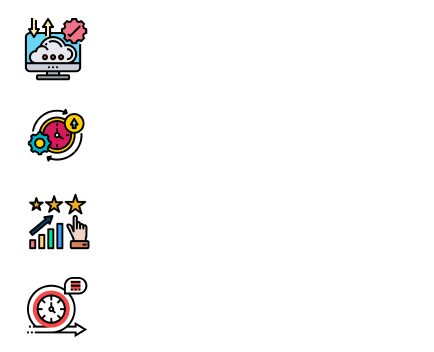
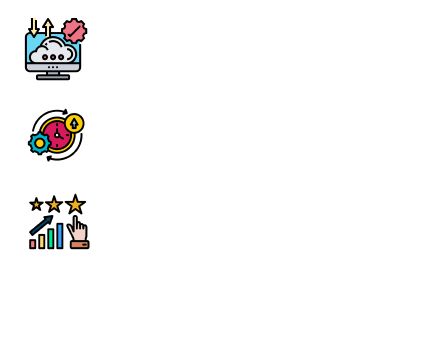
Changes in UI in PDF

Changed region(s): [[0.0599, 0.7812, 0.2097, 0.9688]]

diff --git a/src/app/services/export-file.service.ts b/src/app/services/export-file.service.ts
@@ -202,8 +202,8 @@ export class ExportFileService {
           canvas: [
             {
               type: 'line',
-              x1: 5, y1: 0,
-              x2: 5, y2: 200,  // Adjust the height of the line
+              x1: 15, y1: 0,
+              x2: 15, y2: 200,  // Adjust the height of the line
               lineWidth: 1,
               color: 'black' // Set the color of the line
             }
@@ -211,94 +211,94 @@ export class ExportFileService {
           absolutePosition: { x: 350, y: 125 }, // Adjust position based on spacing
         },     
         //Task_Det
-        // { image: blank_img, width: 120,height: 220, absolutePosition: { x: 212, y: 130 } }, 
-        // { image: taskDet_img, width: 120, absolutePosition: { x: 215, y: 142 } },   
+        { image: blank_img, width: 120,height: 220, absolutePosition: { x: 212, y: 130 } }, 
+        { image: taskDet_img, width: 120, absolutePosition: { x: 215, y: 142 } },   
         
-        // {
-        //   text: this.getTranslation("completed")+"  "+"-",
-        //   color: 'black',
-        //   font: 'NotoSansJP',
-        //   fontSize: 12,
-        //   absolutePosition: { x: 245, y: 147.5 },
-        // },
-        // {
-        //   text: this.getTranslation("assigned")+"  "+"-",
-        //   color: 'black',
-        //   font: 'NotoSansJP',
-        //   fontSize: 12,
-        //   absolutePosition: { x: 245, y: 177 },
-        // },
-        // {
-        //   text: this.getTranslation("inProgress")+"  "+"-",
-        //   color: 'black',
-        //   font: 'NotoSansJP',
-        //   fontSize: 12,
-        //   absolutePosition: { x: 245, y: 207 },
-        // },
-        // {
-        //   text: this.getTranslation("toDo")+"  "+"-",
-        //   color: 'black',
-        //   fontSize: 12,
-        //   font: 'NotoSansJP',
-        //   absolutePosition: { x: 245, y: 237  },
-        // },
-        // {
-        //   text: this.getTranslation("Error")+"  "+"-",
-        //   color: 'black',
-        //   font: 'NotoSansJP',
-        //   fontSize: 12,
-        //   absolutePosition: { x: 245, y: 267  },
-        // },
-        // {
-        //   text: this.getTranslation("cancelled")+"  "+"-",
-        //   color: 'black',
-        //   font: 'NotoSansJP',
-        //   fontSize: 12,
-        //   absolutePosition: { x: 245, y: 296 },
-        // },
+        {
+          text: this.getTranslation("completed")+"  "+"-",
+          color: 'black',
+          font: 'NotoSansJP',
+          fontSize: 12,
+          absolutePosition: { x: 245, y: 147.5 },
+        },
+        {
+          text: this.getTranslation("assigned")+"  "+"-",
+          color: 'black',
+          font: 'NotoSansJP',
+          fontSize: 12,
+          absolutePosition: { x: 245, y: 177 },
+        },
+        {
+          text: this.getTranslation("inProgress")+"  "+"-",
+          color: 'black',
+          font: 'NotoSansJP',
+          fontSize: 12,
+          absolutePosition: { x: 245, y: 207 },
+        },
+        {
+          text: this.getTranslation("toDo")+"  "+"-",
+          color: 'black',
+          fontSize: 12,
+          font: 'NotoSansJP',
+          absolutePosition: { x: 245, y: 237  },
+        },
+        {
+          text: this.getTranslation("Error")+"  "+"-",
+          color: 'black',
+          font: 'NotoSansJP',
+          fontSize: 12,
+          absolutePosition: { x: 245, y: 267  },
+        },
+        {
+          text: this.getTranslation("cancelled")+"  "+"-",
+          color: 'black',
+          font: 'NotoSansJP',
+          fontSize: 12,
+          absolutePosition: { x: 245, y: 296 },
+        },
 
-        // {
-        //   text: this.taskData[0],
-        //   color: 'black',
-        //   fontSize: 12,
-        //   bold: true,
-        //   absolutePosition: { x: 345, y: 148.5 },
-        // },
-        // {
-        //   text: this.taskData[1],
-        //   color: 'black',
-        //   fontSize: 12,
-        //   bold: true,
-        //   absolutePosition: { x: 345, y: 178 },
-        // },
-        // {
-        //   text: this.taskData[2],
-        //   color: 'black',
-        //   fontSize: 12,
-        //   bold: true,
-        //   absolutePosition: { x: 345, y: 208 },
-        // },
-        // {
-        //   text: this.taskData[3],
-        //   color: 'black',
-        //   fontSize: 12,
-        //   bold: true,
-        //   absolutePosition: { x: 345, y: 238  },
-        // },
-        // {
-        //   text: this.taskData[4],
-        //   color: 'black',
-        //   fontSize: 12,
-        //   bold: true,
-        //   absolutePosition: { x: 345, y: 268  },
-        // },
-        // {
-        //   text: this.taskData[5],
-        //   color: 'black',
-        //   fontSize: 12,
-        //   bold: true,
-        //   absolutePosition: { x: 345, y: 297 },
-        // },
+        {
+          text: this.taskData[0],
+          color: 'black',
+          fontSize: 12,
+          bold: true,
+          absolutePosition: { x: 345, y: 148.5 },
+        },
+        {
+          text: this.taskData[1],
+          color: 'black',
+          fontSize: 12,
+          bold: true,
+          absolutePosition: { x: 345, y: 178 },
+        },
+        {
+          text: this.taskData[2],
+          color: 'black',
+          fontSize: 12,
+          bold: true,
+          absolutePosition: { x: 345, y: 208 },
+        },
+        {
+          text: this.taskData[3],
+          color: 'black',
+          fontSize: 12,
+          bold: true,
+          absolutePosition: { x: 345, y: 238  },
+        },
+        {
+          text: this.taskData[4],
+          color: 'black',
+          fontSize: 12,
+          bold: true,
+          absolutePosition: { x: 345, y: 268  },
+        },
+        {
+          text: this.taskData[5],
+          color: 'black',
+          fontSize: 12,
+          bold: true,
+          absolutePosition: { x: 345, y: 297 },
+        },
         //Data
         { image: data_img, width: 160, absolutePosition: { x: 370, y: 165 } },
 
@@ -328,13 +328,13 @@ export class ExportFileService {
           fontSize: 12,
           absolutePosition: { x: 410, y: 236 },
         },
-        {
-          text:this.getTranslation("responsiveness") + ' -',
-          color: 'black',
-          font: 'NotoSansJP',
-          fontSize: 12,
-          absolutePosition: { x: 410, y: 268 },
-        },      
+        // {
+        //   text:this.getTranslation("responsiveness") + ' -',
+        //   color: 'black',
+        //   font: 'NotoSansJP',
+        //   fontSize: 12,
+        //   absolutePosition: { x: 410, y: 268 },
+        // },      
         {
           text: this.systemThroughput + '%',
           color: 'black',
@@ -356,13 +356,13 @@ export class ExportFileService {
           bold: true,
           absolutePosition: { x: 544, y: 240 },
         },
-        {
-          text: this.responsiveness,
-          color: 'black',
-          fontSize: 12,
-          bold: true,
-          absolutePosition: { x: 544, y: 272 },
-        },
+        // {
+        //   text: this.responsiveness,
+        //   color: 'black',
+        //   fontSize: 12,
+        //   bold: true,
+        //   absolutePosition: { x: 544, y: 272 },
+        // },
         //0>>>Throughput
         {
           image: this.URIStrings[0],

diff --git a/src/app/dashboard/dashboard.component.ts b/src/app/dashboard/dashboard.component.ts
@@ -2281,6 +2281,20 @@ export class DashboardComponent implements AfterViewInit {
       );
     });
     
+    this.chargeNodes.forEach((station) => {
+      let x = (station.pos.x + (this.origin.x || 0)) / (this.ratio || 1);
+      let y = (station.pos.y + (this.origin.y || 0)) / (this.ratio || 1);
+
+      const transformedY = this.mapImageHeight - y;
+      this.drawChargeNode(
+        ctx,
+        x,
+        transformedY,
+        station.pos.yaw,
+        station.id,
+        station.isOccupied
+      );
+    });
   }
 
   plotAllAssets(
